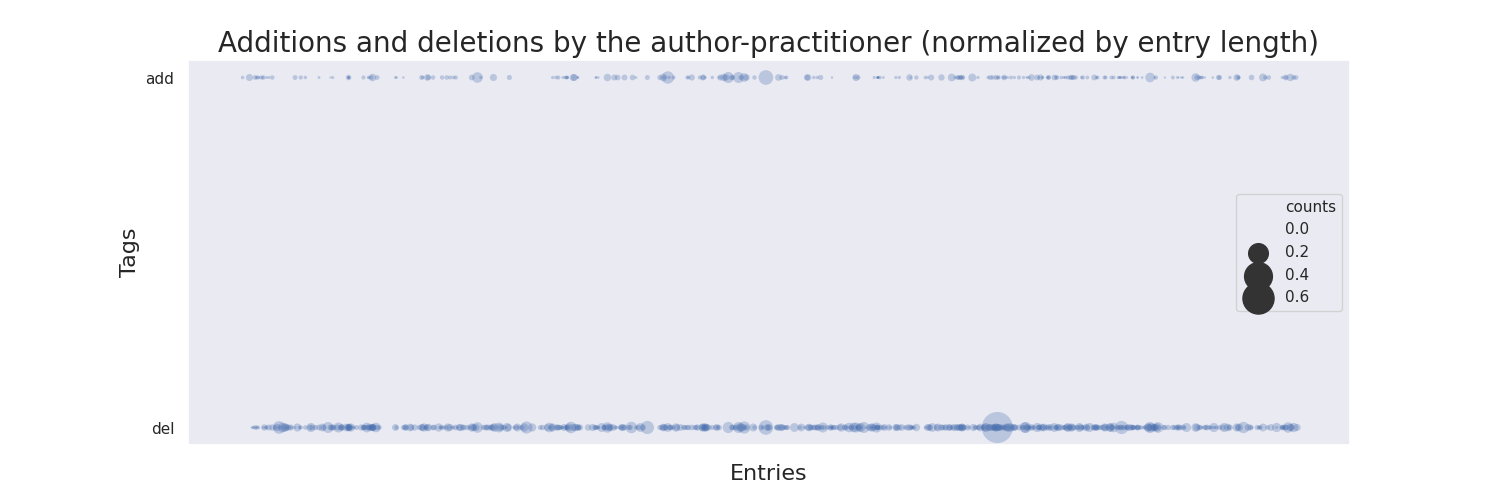
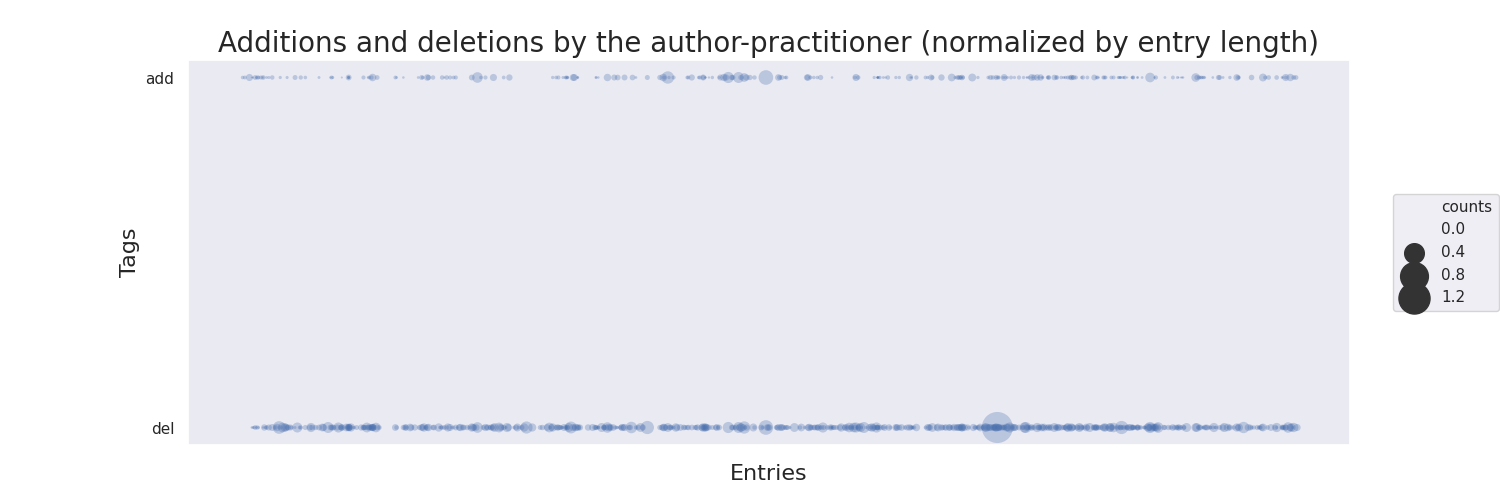
tweaked almost all plots

Changed region(s): [[0.92, 0.39, 1.0, 0.63], [0.828, 0.48, 0.8893, 0.63], [0.8587, 0.39, 0.8893, 0.45]]

diff --git a/manuscript_visualizations.py b/manuscript_visualizations.py
@@ -84,8 +84,8 @@ def tags_bubbleplot(search_tags, filename, title, normalized):
 
             for tag in search_tags:
                 entries.append(entry)
-                tags.append(tag)
-                count = entry_text.count(f'<{tag}>')
+                tags.append(tag.replace("<", "").replace(">", ""))
+                count = entry_text.count(tag.replace("<", "").replace(">", ""))
                 if normalized:
                     pure_text = etree.tostring(div, method = "text", encoding="UTF-8").decode('utf-8')
                     entry_length = len(pure_text.split())
@@ -106,7 +106,8 @@ def tags_bubbleplot(search_tags, filename, title, normalized):
     bubbleplot.set_title(title, fontsize = 20)
 
     bubbleplot.set_xticklabels([], rotation = 90, fontsize = 6)
-    bubbleplot.legend(fancybox = True)
+    #bubbleplot.legend(loc = "best", ncol = 1, framealpha = 0.2, fancybox = True)
+    plt.legend(bbox_to_anchor = (1.03, 0.5), loc = "center left", fancybox = True)
 
     fig = bubbleplot.get_figure()
     fig.savefig(f"{viz_path}{filename}.png")
@@ -198,7 +199,9 @@ def entries_lengths_scatterplot(logscale):
                     normalized_lengths.append(number_of_different_words)
                     folios.append(i//2 + 1)
 
-        df = pandas.DataFrame({"entries": entries, "lengths": lengths, "normalized_lengths": normalized_lengths, "folio number": folios})
+        df = pandas.DataFrame({"entries": entries, "lengths": lengths,
+                               "normalized_lengths": normalized_lengths,
+                               "folio number": folios})
 
         plt.subplots(figsize = (10, 10))
         #plt.gcf().subplots_adjust(left = 0.05)
@@ -206,22 +209,31 @@ def entries_lengths_scatterplot(logscale):
         #points = plt.scatter(df["lengths"], df["normalized_lengths"], s = 0)
         #plt.colorbar(points)
 
-        scatter = sns.scatterplot(x = "lengths", y = "normalized_lengths", hue = "folio number", data = df, linewidth = 0, alpha = 0.9)
+        scatter = sns.scatterplot(x = "lengths", y = "normalized_lengths",
+                                  hue = "folio number", data = df,
+                                  linewidth = 0, alpha = 0.5, size_norm = 1,
+                                  palette = "plasma")
 
         for line in range(0, df.shape[0]):
             if (df.lengths[line] > 1500):
-                scatter.text(df.lengths[line] + 30, df.normalized_lengths[line], df.entries[line], horizontalalignment = "left", fontsize = 10)
+                scatter.text(df.lengths[line] + 30, df.normalized_lengths[line],
+                             df.entries[line], horizontalalignment = "left",
+                             fontsize = 10)
             if (df.lengths[line] < 2 and logscale):
-                scatter.text(df.lengths[line]*1.1, df.normalized_lengths[line], df.entries[line], horizontalalignment = "left", fontsize = 10)
+                scatter.text(df.lengths[line]*1.1, df.normalized_lengths[line],
+                             df.entries[line], horizontalalignment = "left",
+                             fontsize = 10)
 
         scatter.set_xlabel("Number of words", fontsize = 16)
         scatter.set_ylabel("Number of different words", fontsize = 16)
         if logscale:
             scatter.set(xscale = "log")
             scatter.set(yscale = "log")
-            scatter.set_title(f"Lengths of entries (logscale) [{manuscript_version}]", fontsize = 20)
+            scatter.set_title(f"Lengths of entries (logscale) [{manuscript_version}]",
+                              fontsize = 20)
         else:
-            scatter.set_title(f"Lengths of entries [{manuscript_version}]", fontsize = 20)
+            scatter.set_title(f"Lengths of entries [{manuscript_version}]",
+                              fontsize = 20)
 
         scatter.legend(fancybox = True)
 
@@ -279,13 +291,13 @@ def entries_lengths_distplot():
         #plt.gcf().subplots_adjust(right = 0.95)
 
         distplt = sns.distplot(a = df["normalized_lengths"], kde = True, color = "r",
-                               kde_kws = {"color": "r", "lw": 3, "label": "Number of differents words per entry"},
+                               kde_kws = {"color": "r", "lw": 3, "label": "Number of differents words per entry", "alpha": 0.7},
                                bins = np.linspace(0, 800, 40))
         distplt = sns.distplot(a = df["lengths"], kde = True, color = "b",
-                               kde_kws = {"color": "b", "lw": 3, "label": "Total number of words per entry"},
+                               kde_kws = {"color": "b", "lw": 3, "label": "Total number of words per entry", "alpha": 0.7},
                                bins = np.linspace(0, 800, 40))
 
-        distplt.set_xlabel("")
+        distplt.set_xlabel("Word counts")
         distplt.set_title(f"Density estimate of the lengths of entries [{manuscript_version}]", fontsize = 20)
         distplt.set_yticklabels([])
         distplt.set_xlim(0, 900)
@@ -366,7 +378,7 @@ def tags_by_category_swarmplot(search_tags, filename, title):
     plt.gcf().subplots_adjust(right = 0.99)
 
     swarm = sns.stripplot(x = "entry_ids", y = "categories", data = df_strip,
-                          color = "0.8", jitter = 0, size = 10, marker = "s",
+                          color = "0.6", jitter = 0, size = 12, marker = "$|$",
                           order = all_categories)
     swarm = sns.swarmplot(x = "entry_ids", y = "categories", hue = "tags",
                           dodge = True, data = df_swarm, size = 4,
@@ -390,28 +402,40 @@ viz_path = f'{m_path}/manuscript-object/manuscript_visualizations/'
 if not os.path.exists(viz_path):
     os.mkdir(viz_path)
 
-language_tags = ["fr", "el", "it", "la", "oc", "po"]
+language_tags = ["<fr>", "<el>", "<it>", "<la>", "<oc>", "<po>"]
+margin_types = ["left-bottom", "right-bottom", "bottom", "right-middle", "left-middle", "right-top", "left-top", "top"]
 
-title = "Other languages in the English translation of the manuscript"
-
-tags_scatterplot(language_tags, "languages_scatterplot", title)
+#tags_scatterplot(language_tags, "languages_scatterplot", title)
 
 tags_bubbleplot(language_tags, "languages_bubbles", "Other languages in the English translation of the manuscript", False)
 tags_bubbleplot(language_tags, "languages_bubbles_normalized", "Other languages in the English translation of the manuscript (normalized by entry length)", True)
 
-tags_bubbleplot(["del", "add"], "add_del_bubbles", "Additions and deletions by the author-practitioner", False)
-tags_bubbleplot(["del", "add"], "add_del_bubbles_normalized", "Additions and deletions by the author-practitioner (normalized by entry length)", True)
+tags_bubbleplot(["<del>", "<add>"], "add_del_bubbles", "Additions and deletions by the author-practitioner", False)
+tags_bubbleplot(["<del>", "<add>"], "add_del_bubbles_normalized", "Additions and deletions by the author-practitioner (normalized by entry length)", True)
+
+tags_bubbleplot(margin_types, "margins_bubbles", "Margins in the manuscript", False)
+tags_bubbleplot(margin_types, "margins_bubbles_normalized", "Margins in the manuscript (normalized by entry length)", True)
+
+print("Bubbleplots finished.")
 
 categories_barplot()
+
+print("Barplots finished.")
 
 entries_lengths_scatterplot(True)
 entries_lengths_scatterplot(False)
 
+print("Scatterplots finished.")
+
 entries_lengths_distplot()
 
-tags_by_category_swarmplot(["<del>", "<add>"], "add_del_swarmplot", "Additions and deletions by the author-practitioner")
+print("Distplots finished.")
 
-margin_types = ["left-bottom", "right-bottom", "bottom", "right-middle", "left-middle", "right-top", "left-top", "top"]
+tags_by_category_swarmplot(["<del>", "<add>"], "add_del_swarmplot", "Additions and deletions by the author-practitioner")
 tags_by_category_swarmplot(margin_types, "margins_swarmplot", "Margins in the manuscript")
+
+tags_by_category_swarmplot(language_tags, "languages_swarmplot", "Other languages in the English translation of the manuscript")
+
+print("Swarmplot finished.")
 
 print("All done!")
